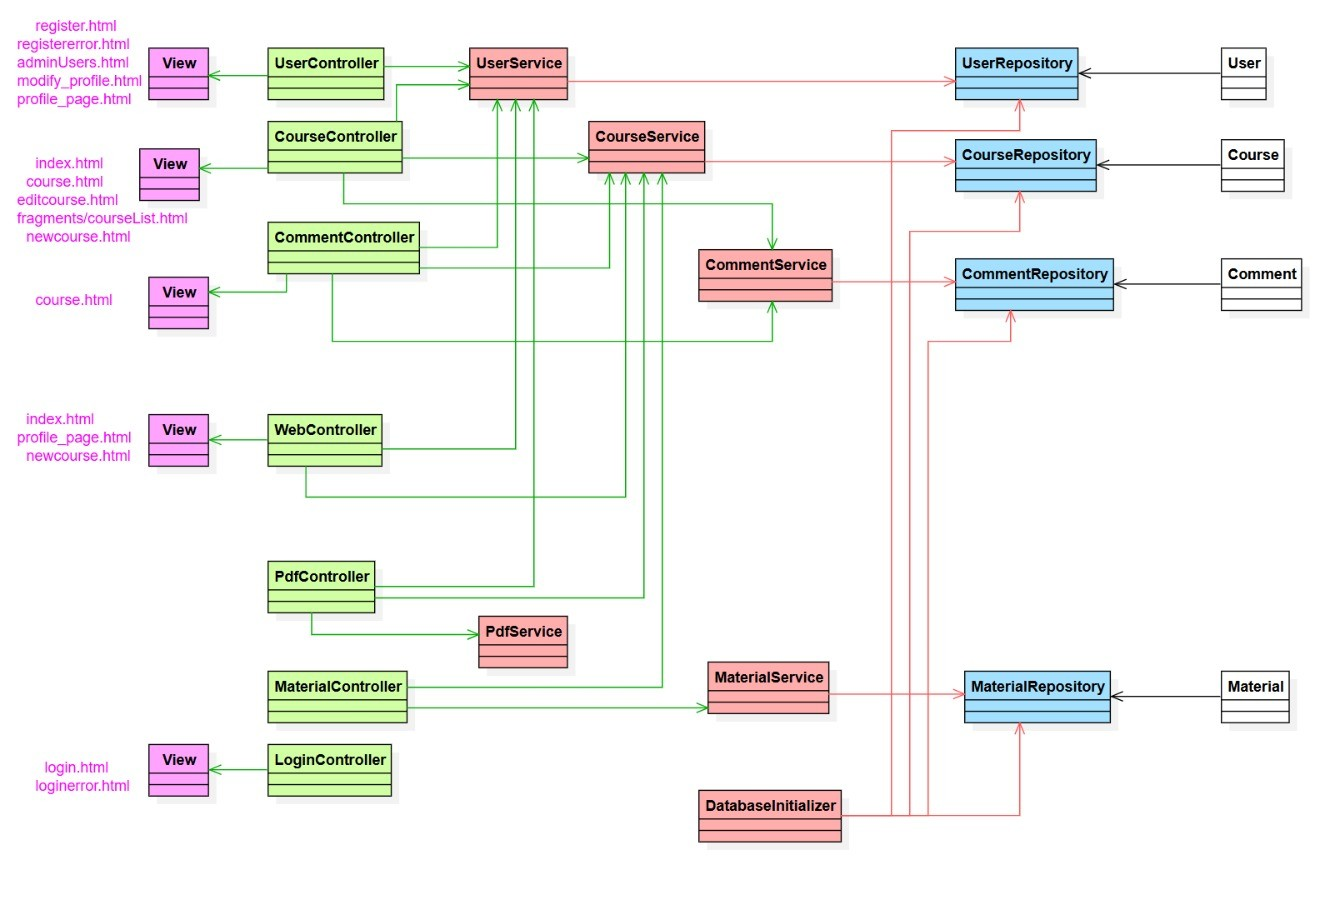
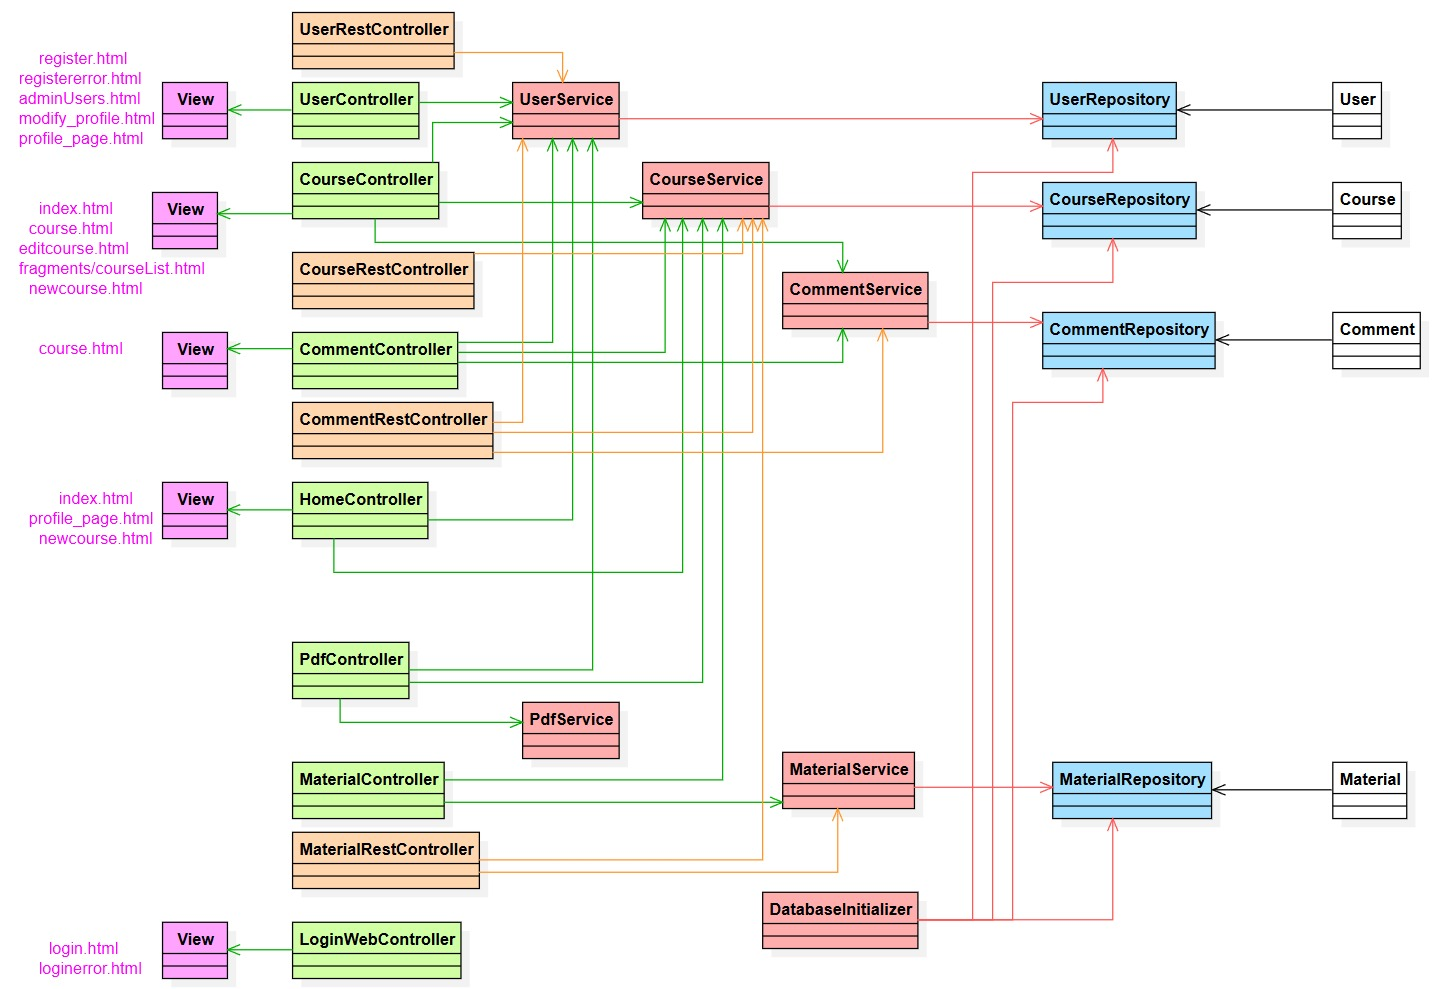
Update readme and class diagram

Changed region(s): [[0.0, 0.0, 1.0, 0.9644], [0.0312, 0.9333, 0.3438, 0.9956], [0.9062, 0.0622, 1.0, 0.2489]]

diff --git a/README.md b/README.md
@@ -212,23 +212,23 @@ I have mainly been concerned with initializing the database with default data, i
 
 <h3>Sergio Rodríguez Gil</h3>
 
-At the beginning of the project I created the repositories and the main controller (which was divided into smaller ones later). Secondly, I modified the class responsible to initialize the database with users, courses, materials and comments. Finally, I implemented functionalities such as modify profile data, modify password, and delete users; apart from fixing some errors along the way meaning.
+At the beginning of the project I created the DTOs and basic DTOs, added the security files needed for the API REST, and implemented the mappers. Apart from that, I was responsible to adapt the services to the API REST.
 
 |                                                 Commit                                                 |                   Description                   |
 | :----------------------------------------------------------------------------------------------------: | :---------------------------------------------: |
-| [1º](https://github.com/CodeURJC-DAW-2024-25/webapp03/commit/0252236a6c185d1f551e7d4fc3e6412ea142b7fd) |             Implement delete course             |
-| [2º](https://github.com/CodeURJC-DAW-2024-25/webapp03/commit/0fd628b7b6e32ba1678d0ed7f92effe353afab4f) |     Implements logic behind adminUsers.html     |
-| [3º](https://github.com/CodeURJC-DAW-2024-25/webapp03/commit/52359184a890dd44796740399d71e29aaffb288c) |      Implement edit profile functionality       |
-| [4º](https://github.com/CodeURJC-DAW-2024-25/webapp03/commit/fd36af402ef8c0b1669cbb5ea3f34ac43b235a14) |    Implements change password functionality     |
-| [5º](https://github.com/CodeURJC-DAW-2024-25/webapp03/commit/81022fb4891dc903e1026835ba120c5d9cf2cbc4) | Initialize database with materials and comments |
+| [1º](https://github.com/CodeURJC-DAW-2024-25/webapp03/commit/beb290aa847abc904bc1d9c83d7a0f8b0662c4c3) |             Add mappers to dto folder             |
+| [2º](https://github.com/CodeURJC-DAW-2024-25/webapp03/commit/360f6e3ec7db9028296a329dee335678f2c5cadc) |     Refactor UserService to use DTOs     |
+| [3º](https://github.com/CodeURJC-DAW-2024-25/webapp03/commit/09716c8c8d4a705263da18650530b42dfa867d9e) |      Refactor MaterialService to use DTOs       |
+| [4º](https://github.com/CodeURJC-DAW-2024-25/webapp03/commit/1ac3d071fe34c95aff79d054291397058795c7d3) |    Modify CommentService to work with dtos     |
+| [5º](https://github.com/CodeURJC-DAW-2024-25/webapp03/commit/886e206f7758936ebbaa5f2def94de677e1037b1) | Create DTOs and BasicDTOs |
 
 |                                                                    File                                                                     |        Name         |
 | :-----------------------------------------------------------------------------------------------------------------------------------------: | :-----------------: |
-|  [1º](https://github.com/CodeURJC-DAW-2024-25/webapp03/blob/main/backend/src/main/java/es/webapp03/backend/controller/WebController.java)   |    WebController    |
-| [2º](https://github.com/CodeURJC-DAW-2024-25/webapp03/blob/main/backend/src/main/java/es/webapp03/backend/service/DatabaseInitializer.java) | DatabaseInitializer |
-| [3º](https://github.com/CodeURJC-DAW-2024-25/webapp03/blob/main/backend/src/main/java/es/webapp03/backend/controller/CourseController.java) |  CourseController   |
-|  [4º](https://github.com/CodeURJC-DAW-2024-25/webapp03/blob/main/backend/src/main/java/es/webapp03/backend/controller/UserController.java)  |   UserController    |
-| [5º](https://github.com/CodeURJC-DAW-2024-25/webapp03/blob/main/backend/src/main/java/es/webapp03/backend/controller/LoginController.java)  |   LoginController   |
+|  [1º](https://github.com/CodeURJC-DAW-2024-25/webapp03/blob/main/backend/src/main/java/es/webapp03/backend/service/CourseService.java)   |    CourseService    |
+| [2º](https://github.com/CodeURJC-DAW-2024-25/webapp03/blob/main/backend/src/main/java/es/webapp03/backend/service/UserService.java) | UserService |
+| [3º](https://github.com/CodeURJC-DAW-2024-25/webapp03/blob/main/backend/src/main/java/es/webapp03/backend/service/MaterialService.java) |  MaterialService   |
+|  [4º](https://github.com/CodeURJC-DAW-2024-25/webapp03/blob/main/backend/src/main/java/es/webapp03/backend/service/CommentService.java)  |   CommentService    |
+| [5º](https://github.com/CodeURJC-DAW-2024-25/webapp03/blob/main/backend/src/main/java/es/webapp03/backend/dto/CourseMapper.java)  |   CourseMapper   |
 
 <h3>Sergio López Cuesta</h3>
 
